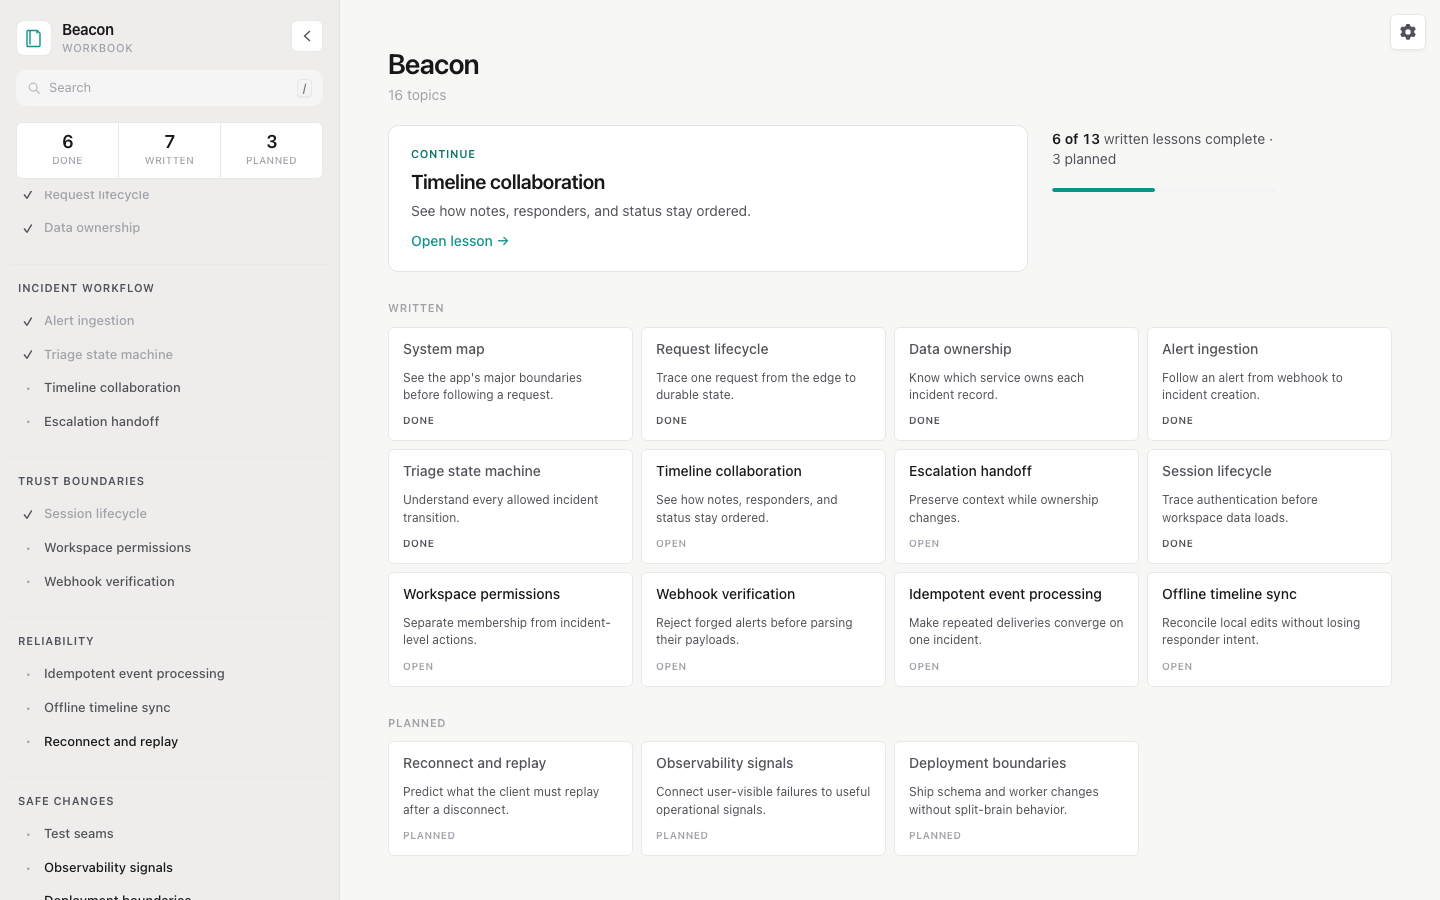
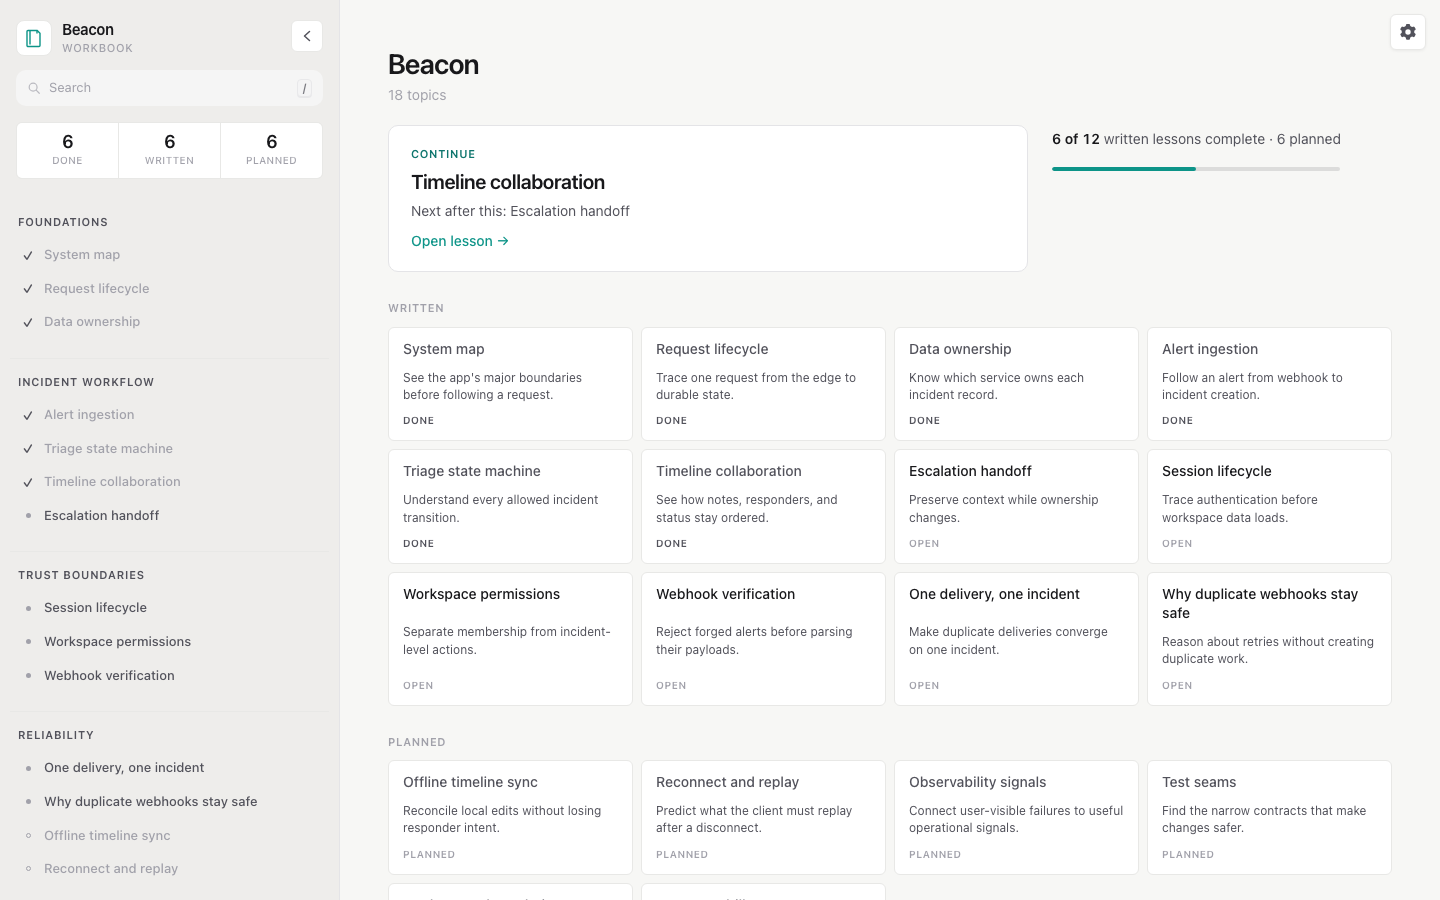
docs(README): update image descriptions for curriculum and lesson viewer; reflect changes in topic count and lesson focus for improved clarity

diff --git a/README.md b/README.md
@@ -28,12 +28,12 @@ examples. Analysis-only by default: no silent refactors, no target pollution, no
 The browser viewer turns the project model into a focused reading workspace.
 
 <p align="center">
-  <img src="https://raw.githubusercontent.com/b-amir/repay-techdebt/main/assets/readme/viewer-curriculum.png" width="100%" alt="Beacon sample workbook curriculum with sixteen topics, progress, and a continue card in the paper-theme desktop viewer">
+  <img src="https://raw.githubusercontent.com/b-amir/repay-techdebt/main/assets/readme/viewer-curriculum.png" width="100%" alt="Beacon sample workbook curriculum with eighteen topics, progress, and a continue card in the paper-theme desktop viewer">
 </p>
 <p align="center"><sub><strong>Curriculum at a glance.</strong> Continue where you left off, scan outcomes, and see what is written, complete, or still planned.</sub></p>
 
 <p align="center">
-  <img src="https://raw.githubusercontent.com/b-amir/repay-techdebt/main/assets/readme/viewer-lesson.png" width="100%" alt="Beacon sample architecture lesson with a lesson rail, table of contents, source-note numbers, callout, and highlighted code">
+  <img src="https://raw.githubusercontent.com/b-amir/repay-techdebt/main/assets/readme/viewer-lesson.png" width="100%" alt="Beacon sample reliability lesson with cover art, a lesson rail, table of contents, source-note numbers, callout, and highlighted code">
 </p>
 <p align="center"><sub><strong>Evidence without clutter.</strong> Read the mechanism first. Quiet source-note numbers preserve traceability without filling the prose with paths.</sub></p>
 
